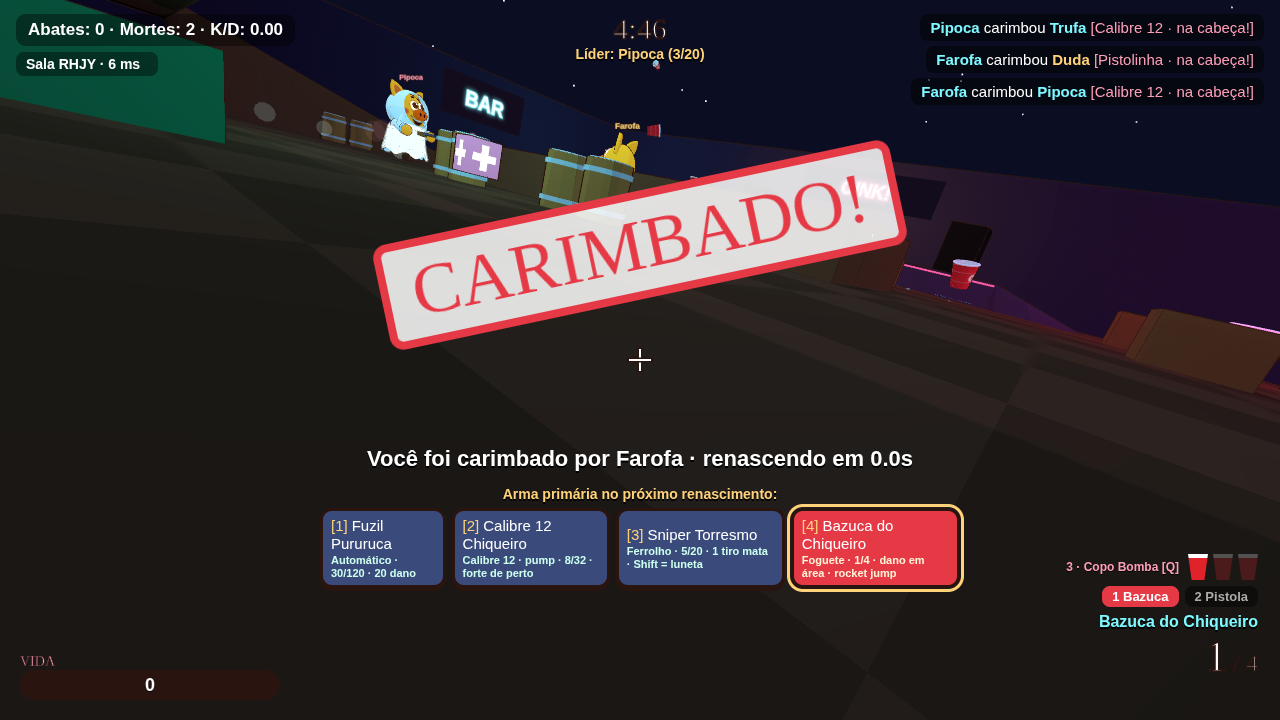
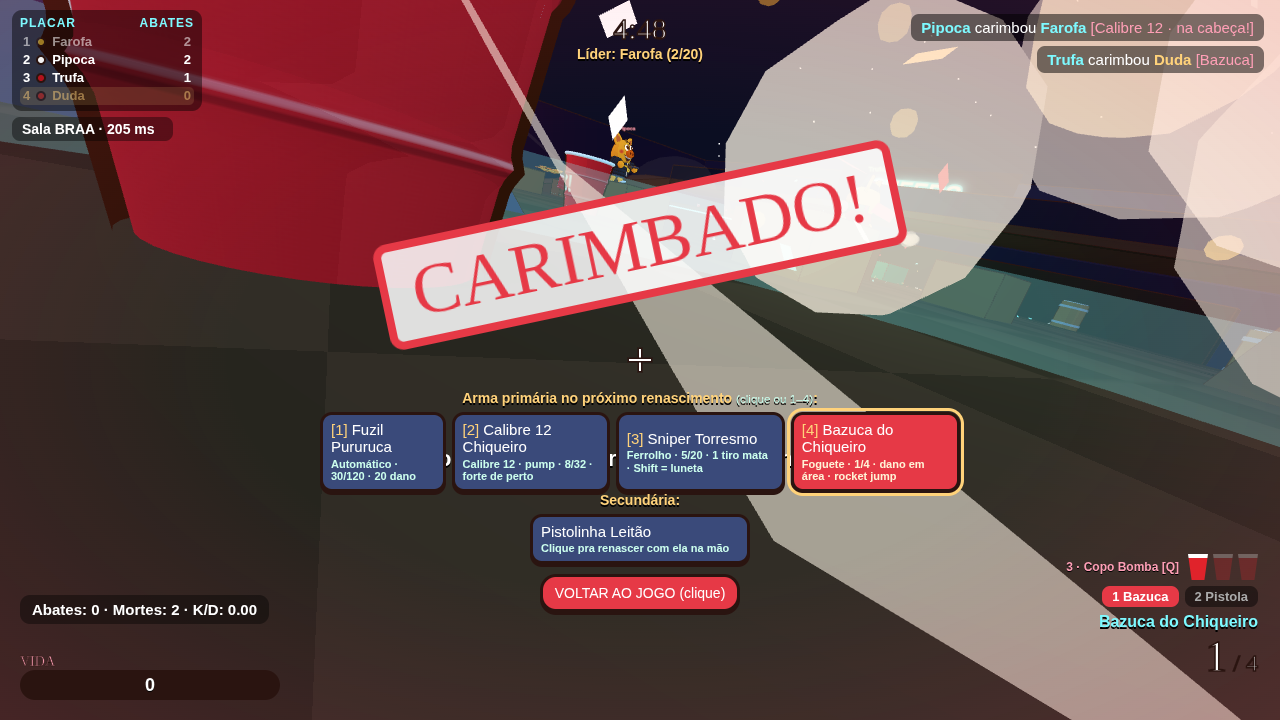
Dominação: escolha de time antes de nascer espera até 60 s, seta da zona não cobre o placar, pitch/histórico de lag comp no renascimento

diff --git a/main.js b/main.js
@@ -1515,7 +1515,7 @@ function netEvent(ev) {
     const [, id, pos, yaw, prim, sq] = ev; const e = entOf(id); if (!e) return;
     e.pos.set(pos[0], pos[1], pos[2]); e.vel.set(0, 0, 0); e.hp = 100; e.alive = true; e.invulnUntil = gameTime + INVULN;
     e.primary = prim; e.slots = [prim, PISTOL]; e.mag = WEAPONS.map((x) => x.mag); e.reserve = WEAPONS.map((x) => x.reserve); e.reloadEnd = 0; e.switchEnd = 0; e.nades = NADE.spawnWith; setWeapon(e, prim);
-    if (e === player) { player.sq = sq; player.yaw = yaw + Math.PI; player.pitch = 0; player.respawnAt = Infinity; player.nextPrimary = prim; player.onGround = true; $('stamp').classList.remove('show'); if (spawnHold === 'secondary') setWeapon(player, PISTOL); onPlayerRespawn(); }
+    if (e === player) { player.sq = sq; player.yaw = yaw + Math.PI; player.pitch = 0; player.respawnAt = Infinity; player.nextPrimary = prim; player.onGround = true; $('stamp').classList.remove('show'); if (spawnHold === 'secondary') setWeapon(player, PISTOL); $('teamPick').classList.add('hidden'); onPlayerRespawn(); }
     else { e.yaw = yaw; e.model.group.visible = true; e.model.group.scale.set(1, 1, 1); e.buf = [{ t: performance.now() / 1000 - INTERP_DELAY, x: pos[0], y: pos[1], z: pos[2], yaw }]; }
   } else if (k === 'pk') { const p = pickups[ev[1]]; if (p) { p.active = !!ev[2]; p.mesh.visible = p.active; } }
   else if (k === 'nd') {

diff --git a/server/src/game.js b/server/src/game.js
@@ -69,7 +69,7 @@ export class Game {
     if (this.state === 'lobby') this.sendLobby();
     else {
       this.io.send(e.id, this.startMsg());
-      if (this.state === 'playing') { this.events.push(['j', this.entInfo(e)]); if (!e.alive) e.respawnAt = e.pendingTeam ? this.T + 15 : Math.min(e.respawnAt || this.T, this.T + 0.5); } // escolhendo time: espera até 15 s
+      if (this.state === 'playing') { this.events.push(['j', this.entInfo(e)]); if (!e.alive) e.respawnAt = e.pendingTeam ? this.T + 60 : Math.min(e.respawnAt || this.T, this.T + 0.5); } // escolhendo time: espera até 60 s (depois vai no Automático)
       if (this.state === 'over') this.io.send(e.id, this.endMsg());
     }
     this.sendLobby();
